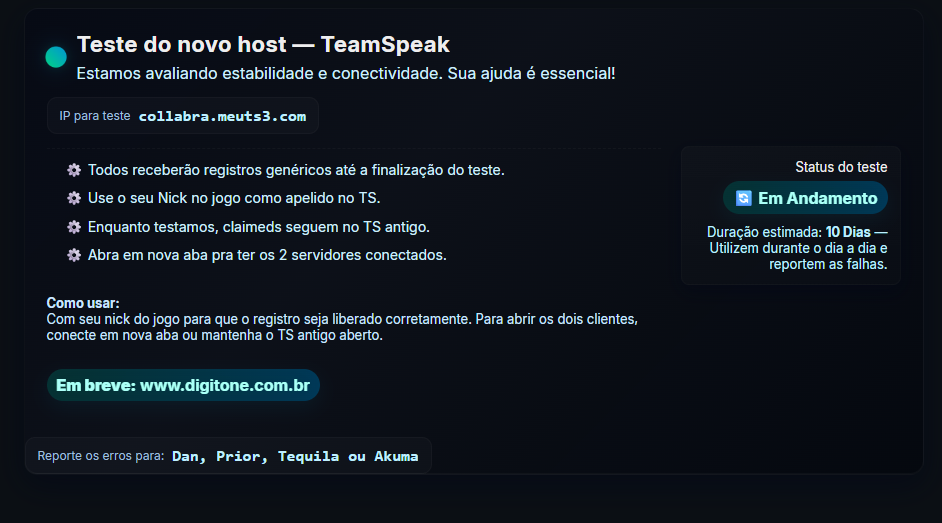
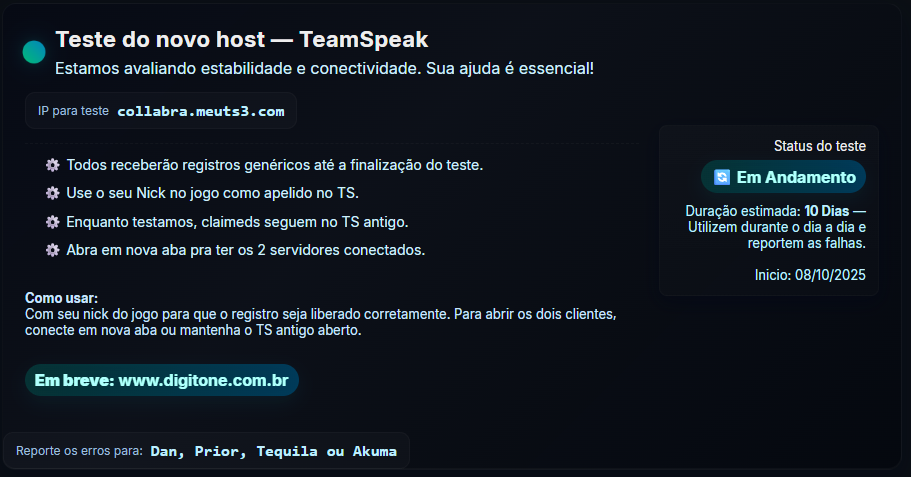
first commit

diff --git a/index.html b/index.html
@@ -88,7 +88,7 @@
           <div style="display:flex;justify-content:flex-end;align-items:center;gap:10px">
             <div class="pulse" onclick="recarregar()">🔄 Em Andamento</div>
           </div>
-          <div style="margin-top:10px;font-size:13px;color:#bfefff">Duração estimada: <strong>10 Dias</strong> — Utilizem durante o dia a dia e reportem as falhas.</div>
+          <div style="margin-top:10px;font-size:13px;color:#bfefff">Duração estimada: <strong>10 Dias</strong> — Utilizem durante o dia a dia e reportem as falhas.<br><br> Inicio: 08/10/2025</div>
         </div>
       </div>
     </div>
